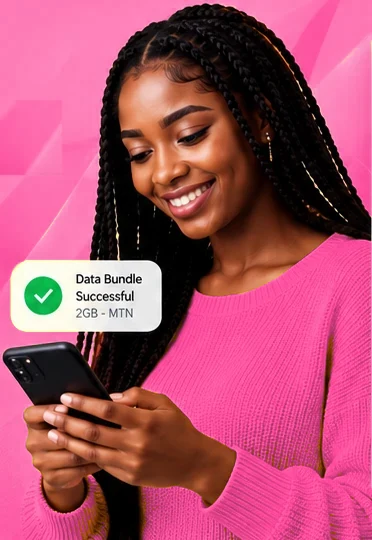
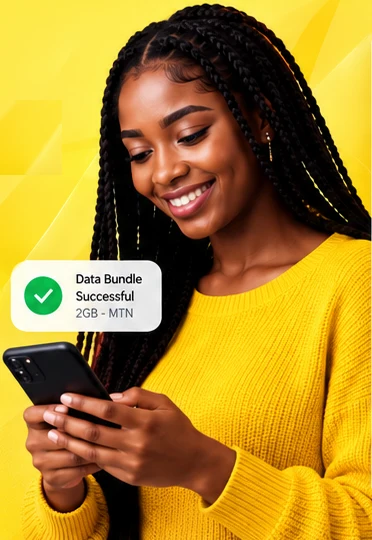
Data Glow: switch to the yellow and black theme
Claude-Session: https://claude.ai/code/session_011K6bvEtoYE2bniEAB5oBvY

diff --git a/web/src/styles.css b/web/src/styles.css
@@ -1,10 +1,10 @@
 /* Data Glow — design tokens and components (yellow / near-black / white identity) */
 :root {
-  --yellow: #FF5FA2;
-  --yellow-2: #FF8CBD;
-  --yellow-soft: #FFE7F1;
-  --yellow-deep: #F03E8C;
-  --amber: #D81B72;
+  --yellow: #FFD400;
+  --yellow-2: #FFE14D;
+  --yellow-soft: #FFF6C7;
+  --yellow-deep: #F2BE00;
+  --amber: #F08A00;
   --ink: #101114;
   --ink-2: #26282D;
   --ink-3: #3A3D44;
@@ -33,9 +33,9 @@
   --night: #101114;
   --on-yellow: #101114;
   --header-bg: rgba(255,255,255,.96);
-  --tint-mtn: #FFF4F9; --tint-telecel: #FFF3F3; --tint-at: #F0FAF4;
+  --tint-mtn: #FFFBEA; --tint-telecel: #FFF3F3; --tint-at: #F0FAF4;
   --danger-ink: #8E1C1C; --success-ink: #0E5C31; --warn-ink: #7A4100; --info-ink: #123E8A;
-  --admin-bg: #F6F5F1; --yellow-line: #F9B9D5;
+  --admin-bg: #F6F5F1; --yellow-line: #F5E08A;
   color-scheme: light;
 }
 * { box-sizing: border-box; }
@@ -145,7 +145,7 @@ p { margin: 0 0 1em; }
 .logo { display: inline-flex; align-items: center; gap: 8px; text-decoration: none; font-weight: 800; font-size: 1.45rem; letter-spacing: -0.03em; color: var(--ink); }
 .logo svg { width: 30px; height: 34px; }
 .logo .deals { color: var(--amber); }
-.on-yellow .logo .deals, .hero .logo .deals { color: #6B0A3C; }
+.on-yellow .logo .deals, .hero .logo .deals { color: #E07A00; }
 .nav { display: none; gap: 2px; margin-left: 12px; }
 .nav a { text-decoration: none; font-weight: 600; font-size: .92rem; padding: 8px 10px; border-radius: 10px; color: var(--ink-2); position: relative; }
 .nav a:hover { background: rgba(16,17,20,.06); }
@@ -164,13 +164,13 @@ p { margin: 0 0 1em; }
 
 /* ---------- Hero ---------- */
 .hero { background: var(--yellow); position: relative; overflow: hidden; }
-.hero::before { content: ''; position: absolute; width: 720px; height: 720px; right: -160px; top: -260px; border-radius: 50%; background: radial-gradient(closest-side, rgba(255,170,205,.9), rgba(255,95,162,0)); pointer-events: none; }
+.hero::before { content: ''; position: absolute; width: 720px; height: 720px; right: -160px; top: -260px; border-radius: 50%; background: radial-gradient(closest-side, rgba(255,236,120,.9), rgba(255,212,0,0)); pointer-events: none; }
 .hero-inner { position: relative; display: grid; gap: 28px; padding-top: 28px; padding-bottom: 40px; align-items: start; }
 @media (min-width: 980px) { .hero-inner { grid-template-columns: 1.15fr .85fr; gap: 40px; padding-top: 52px; padding-bottom: 64px; align-items: center; } }
 .hero-kicker { display: inline-flex; gap: 10px; align-items: center; border: 1.5px solid rgba(16,17,20,.85); border-radius: 999px; padding: 6px 14px; font-weight: 700; font-size: .76rem; letter-spacing: .08em; margin-bottom: 18px; background: rgba(255,255,255,.18); }
 .hero-kicker i { width: 4px; height: 4px; border-radius: 50%; background: var(--ink); display: inline-block; }
 .hero h1 { margin-bottom: 14px; }
-.hero h1 .accent { color: #6B0A3C; display: block; }
+.hero h1 .accent { color: #E07A00; display: block; }
 .hero .lead { font-size: clamp(1.02rem, 1.8vw, 1.2rem); max-width: 34ch; color: var(--ink-2); margin-bottom: 22px; }
 .features { display: grid; grid-template-columns: repeat(4, 1fr); gap: 10px; max-width: 480px; margin-bottom: 24px; }
 .feature { text-align: center; font-size: .8rem; font-weight: 700; line-height: 1.25; }
@@ -395,10 +395,10 @@ table.table { width: 100%; border-collapse: collapse; font-size: .9rem; }
 /* ---------- Customer dashboard (premium) ---------- */
 .dash-hero { position: relative; overflow: hidden; background: var(--night); color: #fff; border-radius: 24px; padding: 24px 20px 20px; margin-bottom: 16px; box-shadow: var(--shadow-lg); }
 @media (min-width: 720px) { .dash-hero { padding: 32px 30px 26px; } }
-.dash-hero-glow { position: absolute; width: 420px; height: 420px; right: -170px; top: -210px; border-radius: 50%; background: radial-gradient(circle, rgba(255,95,162,.55) 0%, rgba(255,95,162,.12) 45%, rgba(255,95,162,0) 70%); pointer-events: none; }
+.dash-hero-glow { position: absolute; width: 420px; height: 420px; right: -170px; top: -210px; border-radius: 50%; background: radial-gradient(circle, rgba(255,212,0,.55) 0%, rgba(255,212,0,.12) 45%, rgba(255,212,0,0) 70%); pointer-events: none; }
 .dash-hero > *:not(.dash-hero-glow) { position: relative; }
 .dash-kicker { display: inline-flex; align-items: center; gap: 8px; font-size: .78rem; font-weight: 700; letter-spacing: .08em; text-transform: uppercase; color: rgba(255,255,255,.72); }
-.dash-dot { width: 8px; height: 8px; border-radius: 50%; background: var(--yellow); box-shadow: 0 0 0 4px rgba(255,95,162,.18); }
+.dash-dot { width: 8px; height: 8px; border-radius: 50%; background: var(--yellow); box-shadow: 0 0 0 4px rgba(255,212,0,.18); }
 .dash-hello { font-size: clamp(1.9rem, 6.4vw, 2.7rem); margin: 10px 0 6px; color: #fff; letter-spacing: -0.035em; }
 .dash-hello span { color: var(--yellow); }
 .dash-twi { margin: 0 0 18px; font-size: 1rem; color: rgba(255,255,255,.78); line-height: 1.45; }
@@ -413,7 +413,7 @@ table.table { width: 100%; border-collapse: collapse; font-size: .9rem; }
 .dash-stats { display: grid; grid-template-columns: repeat(2, minmax(0, 1fr)); gap: 10px; }
 @media (min-width: 720px) { .dash-stats { grid-template-columns: repeat(4, minmax(0, 1fr)); } }
 .dash-stat { display: flex; align-items: center; gap: 11px; background: rgba(255,255,255,.06); border: 1px solid rgba(255,255,255,.1); border-radius: 16px; padding: 12px; min-width: 0; }
-.dash-stat-ic { flex-shrink: 0; width: 38px; height: 38px; border-radius: 12px; background: rgba(255,95,162,.14); color: var(--yellow); display: flex; align-items: center; justify-content: center; }
+.dash-stat-ic { flex-shrink: 0; width: 38px; height: 38px; border-radius: 12px; background: rgba(255,212,0,.14); color: var(--yellow); display: flex; align-items: center; justify-content: center; }
 .dash-stat-ic svg { width: 19px; height: 19px; }
 .dash-stat-v { font-weight: 800; font-size: 1.12rem; line-height: 1.15; font-variant-numeric: tabular-nums; white-space: nowrap; overflow: hidden; text-overflow: ellipsis; }
 .dash-stat-l { font-size: .74rem; color: rgba(255,255,255,.62); font-weight: 600; }
@@ -449,7 +449,7 @@ table.table { width: 100%; border-collapse: collapse; font-size: .9rem; }
 .hero-kicker-split .kick-rest { display: inline-flex; gap: 9px; align-items: center; padding: 6px 13px; }
 @media (max-width: 380px) { .hero-kicker-split .kick-rest { display: none; } }
 .greet-card { display: flex; align-items: center; gap: 12px; background: var(--night); color: #fff; border-radius: 20px; padding: 12px 12px 12px 12px; margin-bottom: 20px; text-decoration: none; box-shadow: 0 14px 34px rgba(16,17,20,.22); max-width: 520px; position: relative; overflow: hidden; }
-.greet-card::before { content: ''; position: absolute; width: 180px; height: 180px; right: -70px; top: -90px; border-radius: 50%; background: radial-gradient(circle, rgba(255,95,162,.45), rgba(255,95,162,0) 70%); pointer-events: none; }
+.greet-card::before { content: ''; position: absolute; width: 180px; height: 180px; right: -70px; top: -90px; border-radius: 50%; background: radial-gradient(circle, rgba(255,212,0,.45), rgba(255,212,0,0) 70%); pointer-events: none; }
 .greet-avatar { flex-shrink: 0; width: 46px; height: 46px; border-radius: 14px; background: var(--yellow); color: var(--ink); font-weight: 800; font-size: 1.25rem; display: flex; align-items: center; justify-content: center; }
 .greet-text { flex: 1; min-width: 0; display: flex; flex-direction: column; gap: 2px; position: relative; }
 .greet-hello { font-weight: 700; font-size: 1.08rem; line-height: 1.2; }
@@ -510,7 +510,7 @@ table.table { width: 100%; border-collapse: collapse; font-size: .9rem; }
   /* The yellow brand areas keep their original light look (dark text on yellow, white buy box). */
   .hero, .site-header.on-yellow, .lady-banner, .promo {
     --ink: #101114; --ink-2: #26282D; --ink-3: #3A3D44; --muted: #5E626A; --muted-2: #8A8E96;
-    --line: #E9E7E0; --line-2: #F1EFE9; --surface: #FFFFFF; --surface-2: #FBFAF7; --soft: #F7F6F2; --yellow-soft: #FFE7F1;
+    --line: #E9E7E0; --line-2: #F1EFE9; --surface: #FFFFFF; --surface-2: #FBFAF7; --soft: #F7F6F2; --yellow-soft: #FFF6C7;
     --success: #188A4A; --success-bg: #E6F5EC; --danger: #C62828; --danger-bg: #FDECEA; --info: #1759C7; --info-bg: #E8F0FE; --warn: #B45F00; --warn-bg: #FFF1DC;
     color: #101114;
   }
@@ -547,15 +547,15 @@ table.table { width: 100%; border-collapse: collapse; font-size: .9rem; }
 .demo-notch { position: absolute; top: 18px; left: 50%; transform: translateX(-50%); width: 88px; height: 22px; border-radius: 999px; background: #000; z-index: 3; }
 .demo-screen { position: relative; height: 100%; border-radius: 32px; overflow: hidden; background: #FFFFFF; color: #101114; padding: 48px 16px 18px; }
 .demo-top { display: flex; justify-content: space-between; align-items: center; margin-bottom: 18px; font-size: .78rem; font-weight: 700; }
-.demo-logo { font-weight: 800; font-size: .95rem; } .demo-logo b { color: #6B0A3C; }
-.demo-step { background: #FFE7F1; border-radius: 999px; padding: 3px 9px; }
+.demo-logo { font-weight: 800; font-size: .95rem; } .demo-logo b { color: #E07A00; }
+.demo-step { background: #FFF6C7; border-radius: 999px; padding: 3px 9px; }
 .demo-pane { position: absolute; left: 16px; right: 16px; top: 92px; opacity: 0; transform: translateX(26px); transition: opacity .45s ease, transform .45s ease; pointer-events: none; }
 .demo-pane.on { opacity: 1; transform: none; }
 .demo-label { font-weight: 800; font-size: .95rem; margin-bottom: 12px; }
 .demo-nets { display: grid; grid-template-columns: repeat(3, 1fr); gap: 8px; }
 .demo-net { position: relative; border: 1.5px solid #E9E7E0; border-radius: 14px; padding: 12px 4px; display: flex; flex-direction: column; align-items: center; gap: 6px; font-weight: 700; font-size: .78rem; }
 .demo-pane.on .demo-net.pick { animation: dd-pick 0s .9s forwards; }
-@keyframes dd-pick { to { border-color: #101114; background: #FFE7F1; box-shadow: inset 0 0 0 1px #101114; } }
+@keyframes dd-pick { to { border-color: #101114; background: #FFF6C7; box-shadow: inset 0 0 0 1px #101114; } }
 .demo-tap { position: absolute; width: 34px; height: 34px; border-radius: 50%; background: rgba(16,17,20,.25); right: 12px; bottom: 6px; opacity: 0; }
 .demo-pane.on .demo-tap { animation: dd-tap .9s .5s ease-out 1; }
 @keyframes dd-tap { 0% { opacity: .9; transform: scale(.3); } 100% { opacity: 0; transform: scale(1.6); } }
@@ -570,15 +570,15 @@ table.table { width: 100%; border-collapse: collapse; font-size: .9rem; }
 .demo-momo { background: #FFCB05; border-radius: 18px; padding: 18px; text-align: center; font-size: .88rem; font-weight: 600; }
 .demo-momo-h { font-weight: 800; font-size: 1rem; margin-bottom: 8px; }
 .demo-momo-amt { font-size: 1.8rem; font-weight: 800; margin: 4px 0 14px; }
-.demo-momo-btn { position: relative; background: #101114; color: #FF5FA2; border-radius: 12px; padding: 12px; font-weight: 800; }
-.demo-momo-btn .demo-tap { right: 40%; bottom: 4px; background: rgba(255,95,162,.5); }
+.demo-momo-btn { position: relative; background: #101114; color: #FFD400; border-radius: 12px; padding: 12px; font-weight: 800; }
+.demo-momo-btn .demo-tap { right: 40%; bottom: 4px; background: rgba(255,212,0,.5); }
 .demo-done { text-align: center; display: flex; flex-direction: column; align-items: center; gap: 8px; padding-top: 30px; font-size: .9rem; }
 .demo-done b { font-size: 1.4rem; }
 .demo-done span { color: #5E626A; font-weight: 600; }
 .demo-check { width: 76px; height: 76px; border-radius: 50%; background: #188A4A; color: #fff; font-size: 2.4rem; font-weight: 800; display: flex; align-items: center; justify-content: center; animation: dd-pop .5s cubic-bezier(.2,1.6,.4,1); }
 @keyframes dd-pop { from { transform: scale(0); } to { transform: scale(1); } }
 .demo-bar { position: absolute; left: 16px; right: 16px; bottom: 18px; height: 4px; border-radius: 4px; background: #F1EFE9; overflow: hidden; }
-.demo-bar i { display: block; height: 100%; background: #FF5FA2; width: 0; animation: dd-grow linear forwards; }
+.demo-bar i { display: block; height: 100%; background: #FFD400; width: 0; animation: dd-grow linear forwards; }
 @keyframes dd-grow { to { width: 100%; } }
 .demo-steps h2 { margin-bottom: 16px; }
 .demo-steps ol { list-style: none; padding: 0; margin: 0 0 22px; display: grid; gap: 10px; }
@@ -589,28 +589,28 @@ table.table { width: 100%; border-collapse: collapse; font-size: .9rem; }
 .demo-num { flex-shrink: 0; width: 36px; height: 36px; border-radius: 50%; background: var(--yellow-soft); color: var(--ink); font-weight: 800; display: flex; align-items: center; justify-content: center; transition: background .2s; }
 .demo-steps button.on .demo-num { background: var(--yellow); color: var(--on-yellow); }
 @media (prefers-reduced-motion: reduce) { .ticker-track { animation: none; } .demo-pane, .demo-steps button { transition: none; } .demo-caret { animation: none; } }
-.demo-cta { position: absolute; left: 16px; right: 16px; bottom: 64px; height: 50px; border-radius: 14px; background: #FF5FA2; color: #101114; font-weight: 800; font-size: .92rem; display: flex; align-items: center; justify-content: center; overflow: hidden; }
+.demo-cta { position: absolute; left: 16px; right: 16px; bottom: 64px; height: 50px; border-radius: 14px; background: #FFD400; color: #101114; font-weight: 800; font-size: .92rem; display: flex; align-items: center; justify-content: center; overflow: hidden; }
 .demo-cta .demo-tap { right: 44%; bottom: 8px; opacity: 0; animation: dd-tap .9s 2.3s ease-out 1 !important; }
 .demo-note { position: absolute; left: 16px; right: 16px; bottom: 34px; text-align: center; font-size: .72rem; font-weight: 600; color: #8A8E96; }
 .demo-cta, .demo-note { white-space: nowrap; }
 
 /* ---------- Phone hero stage: lady + moving text ---------- */
-.stage { position: relative; height: 290px; margin: 4px 0 22px; border-radius: 26px; overflow: hidden; background: linear-gradient(160deg, #FF8CBD 0%, #FF5FA2 55%, #F03E8C 100%); box-shadow: inset 0 0 0 1.5px rgba(16,17,20,.08), 0 14px 30px rgba(16,17,20,.12); }
+.stage { position: relative; height: 290px; margin: 4px 0 22px; border-radius: 26px; overflow: hidden; background: linear-gradient(160deg, #FFE14D 0%, #FFD400 55%, #F2BE00 100%); box-shadow: inset 0 0 0 1.5px rgba(16,17,20,.08), 0 14px 30px rgba(16,17,20,.12); }
 .stage-glow { position: absolute; width: 300px; height: 300px; left: -90px; top: -120px; border-radius: 50%; background: radial-gradient(circle, rgba(255,255,255,.55), rgba(255,255,255,0) 70%); pointer-events: none; }
 .stage-lady { position: absolute; right: -34px; bottom: 34px; height: 300px; width: auto; max-width: none; object-fit: contain;
   -webkit-mask-image: linear-gradient(to right, transparent 0, #000 14%); mask-image: linear-gradient(to right, transparent 0, #000 14%);
   animation: dd-float 6s ease-in-out infinite; }
 @keyframes dd-float { 0%, 100% { transform: translateY(0); } 50% { transform: translateY(-6px); } }
 .stage-copy { position: absolute; left: 18px; top: 20px; width: 56%; z-index: 2; color: #101114; }
-.stage-pill { display: inline-block; background: #101114; color: #FF5FA2; font-weight: 800; font-size: .72rem; border-radius: 999px; padding: 5px 10px; margin-bottom: 12px; }
+.stage-pill { display: inline-block; background: #101114; color: #FFD400; font-weight: 800; font-size: .72rem; border-radius: 999px; padding: 5px 10px; margin-bottom: 12px; }
 .stage-line { font-weight: 800; font-size: 1.5rem; line-height: 1.05; letter-spacing: -0.02em; }
 .stage-word { height: 2.2rem; overflow: hidden; font-weight: 800; font-size: 1.75rem; line-height: 2.2rem; letter-spacing: -0.03em; color: #101114; }
-.stage-word span { display: inline-block; background: #101114; color: #FF5FA2; padding: 0 10px; border-radius: 10px; animation: dd-word .5s cubic-bezier(.2,.9,.3,1.2); white-space: nowrap; }
+.stage-word span { display: inline-block; background: #101114; color: #FFD400; padding: 0 10px; border-radius: 10px; animation: dd-word .5s cubic-bezier(.2,.9,.3,1.2); white-space: nowrap; }
 @keyframes dd-word { from { transform: translateY(110%); opacity: 0; } to { transform: none; opacity: 1; } }
 .stage-sub { margin-top: 10px; font-size: .85rem; font-weight: 600; color: #26282D; max-width: 170px; line-height: 1.35; }
 .stage-strip { position: absolute; left: 0; right: 0; bottom: 0; height: 36px; background: #101114; color: #fff; display: flex; align-items: center; overflow: hidden; white-space: nowrap; z-index: 3; }
 .stage-strip span { display: inline-flex; align-items: center; gap: 14px; padding-right: 14px; font-weight: 800; font-size: .8rem; }
-.stage-strip i { font-style: normal; color: #FF5FA2; }
+.stage-strip i { font-style: normal; color: #FFD400; }
 .stage-strip .ticker-track { animation-duration: 18s; }
 @media (min-width: 420px) { .stage { height: 320px; } .stage-lady { height: 330px; right: -20px; } .stage-copy { width: 52%; } }
 @media (min-width: 1200px) { .stage { display: none; } }
@@ -628,7 +628,7 @@ table.table { width: 100%; border-collapse: collapse; font-size: .9rem; }
 .chat-panel { position: fixed; inset: 0; z-index: 90; display: flex; flex-direction: column; background: var(--bg); animation: dd-rise .25s ease-out; }
 @media (min-width: 641px) { .chat-panel { inset: auto 24px 24px auto; width: 390px; height: min(640px, calc(100vh - 48px)); border-radius: 24px; overflow: hidden; box-shadow: 0 24px 60px rgba(16,17,20,.3); border: 1px solid var(--line); } }
 .chat-head { display: flex; align-items: center; gap: 12px; padding: 14px 14px 14px 16px; padding-top: calc(14px + env(safe-area-inset-top)); background: var(--night); color: #fff; position: relative; overflow: hidden; }
-.chat-head::after { content: ''; position: absolute; width: 180px; height: 180px; right: -60px; top: -100px; border-radius: 50%; background: radial-gradient(circle, rgba(255,95,162,.4), rgba(255,95,162,0) 70%); pointer-events: none; }
+.chat-head::after { content: ''; position: absolute; width: 180px; height: 180px; right: -60px; top: -100px; border-radius: 50%; background: radial-gradient(circle, rgba(255,212,0,.4), rgba(255,212,0,0) 70%); pointer-events: none; }
 .chat-avatars { display: flex; flex-shrink: 0; }
 .chat-avatars span { width: 40px; height: 40px; border-radius: 50%; background: var(--yellow); color: #101114; font-weight: 800; font-size: .85rem; display: flex; align-items: center; justify-content: center; border: 2px solid var(--night); }
 .chat-avatars span + span { margin-left: -10px; }
@@ -711,26 +711,26 @@ table.table { width: 100%; border-collapse: collapse; font-size: .9rem; }
 .promo-art-ic { font-size: 2.5rem; line-height: 1; }
 /* Brand tones: black / orange / white / deep yellow. No network logos. */
 .tone-night { background: linear-gradient(125deg, #101114 0%, #24262C 100%); color: #fff; }
-.tone-night .promo-glow { background: radial-gradient(closest-side, rgba(255,95,162,.55), transparent); }
-.tone-night .promo-badge, .tone-night .promo-cta { background: #FF5FA2; color: #101114; }
-.tone-night .promo-title em { color: #FF5FA2; }
-.tone-night .promo-art { background: #FF5FA2; color: #101114; box-shadow: 0 10px 24px rgba(255,95,162,.3); }
-.tone-orange { background: linear-gradient(125deg, #D81B72 0%, #B0125C 100%); color: #fff; }
-.tone-orange .promo-glow { background: radial-gradient(closest-side, rgba(255,170,205,.7), transparent); }
+.tone-night .promo-glow { background: radial-gradient(closest-side, rgba(255,212,0,.55), transparent); }
+.tone-night .promo-badge, .tone-night .promo-cta { background: #FFD400; color: #101114; }
+.tone-night .promo-title em { color: #FFD400; }
+.tone-night .promo-art { background: #FFD400; color: #101114; box-shadow: 0 10px 24px rgba(255,212,0,.3); }
+.tone-orange { background: linear-gradient(125deg, #F08A00 0%, #E06A00 100%); color: #fff; }
+.tone-orange .promo-glow { background: radial-gradient(closest-side, rgba(255,236,120,.7), transparent); }
 .tone-orange .promo-badge { background: rgba(255,255,255,.2); color: #fff; }
-.tone-orange .promo-cta { background: #101114; color: #FF5FA2; }
+.tone-orange .promo-cta { background: #101114; color: #FFD400; }
 .tone-orange .promo-title em { color: #101114; }
 .tone-orange .promo-art { background: #fff; box-shadow: 0 10px 24px rgba(16,17,20,.2); }
-.tone-light { background: linear-gradient(125deg, #FFFFFF 0%, #FFE7F1 100%); color: #101114; }
-.tone-light .promo-glow { background: radial-gradient(closest-side, rgba(255,95,162,.6), transparent); }
-.tone-light .promo-badge, .tone-light .promo-cta { background: #101114; color: #FF5FA2; }
-.tone-light .promo-title em { color: #6B0A3C; }
+.tone-light { background: linear-gradient(125deg, #FFFFFF 0%, #FFF6C7 100%); color: #101114; }
+.tone-light .promo-glow { background: radial-gradient(closest-side, rgba(255,212,0,.6), transparent); }
+.tone-light .promo-badge, .tone-light .promo-cta { background: #101114; color: #FFD400; }
+.tone-light .promo-title em { color: #E07A00; }
 .tone-light .promo-sub { color: #3A3D44; opacity: 1; }
 .tone-light .promo-art { background: #101114; }
-.tone-deep { background: linear-gradient(125deg, #FF8CBD 0%, #F03E8C 100%); color: #101114; }
+.tone-deep { background: linear-gradient(125deg, #FFE14D 0%, #F2BE00 100%); color: #101114; }
 .tone-deep .promo-glow { background: radial-gradient(closest-side, rgba(255,255,255,.8), transparent); }
 .tone-deep .promo-badge { background: rgba(16,17,20,.1); color: #101114; }
-.tone-deep .promo-cta { background: #101114; color: #FF5FA2; }
+.tone-deep .promo-cta { background: #101114; color: #FFD400; }
 .tone-deep .promo-title em { color: #B35A00; }
 .tone-deep .promo-sub { color: #26282D; opacity: 1; }
 .tone-deep .promo-art { background: #fff; box-shadow: 0 10px 24px rgba(16,17,20,.16); }

diff --git a/web/src/admin/common.tsx b/web/src/admin/common.tsx
@@ -58,10 +58,10 @@ export function AreaChart({ points, height = 200 }: { points: { label: string; v
     <div className="chart" ref={ref} style={{ position: 'relative' }} onPointerMove={onMove} onPointerLeave={() => setHover(null)}>
       <svg viewBox={`0 0 ${W} ${H}`} role="img" aria-label="Sales over time">
         {ticks.map((t) => <g key={t}><line x1={pad.l} x2={W - pad.r} y1={y(t)} y2={y(t)} style={{ stroke: 'var(--line)' }} /><text x={pad.l - 8} y={y(t) + 4} textAnchor="end" fontSize="11" fill="#8A8E96">{t >= 100000 ? `${(t / 100000).toFixed(t % 100000 ? 1 : 0)}k` : (t / 100).toFixed(t % 100 ? (t % 10 ? 2 : 1) : 0)}</text></g>)}
-        <path d={area} fill="#FF5FA2" fillOpacity=".28" />
+        <path d={area} fill="#FFD400" fillOpacity=".28" />
         <path d={line} fill="none" stroke="#E0B000" strokeWidth="2.5" strokeLinejoin="round" />
         {points.map((p, i) => i % every === 0 || i === points.length - 1 ? <text key={i} x={x(i)} y={H - 6} textAnchor="middle" fontSize="11" fill="#8A8E96">{p.label.slice(5).replace('-', '/')}</text> : null)}
-        {hover !== null && <><line x1={x(hover)} x2={x(hover)} y1={pad.t} y2={H - pad.b} style={{ stroke: 'var(--ink)' }} strokeOpacity=".25" /><circle cx={x(hover)} cy={y(points[hover].value)} r="5" fill="#101114" stroke="#FF5FA2" strokeWidth="2" /></>}
+        {hover !== null && <><line x1={x(hover)} x2={x(hover)} y1={pad.t} y2={H - pad.b} style={{ stroke: 'var(--ink)' }} strokeOpacity=".25" /><circle cx={x(hover)} cy={y(points[hover].value)} r="5" fill="#101114" stroke="#FFD400" strokeWidth="2" /></>}
       </svg>
       {hover !== null && <div className="chart-tip" style={{ left: `${(x(hover) / W) * 100}%`, top: `${(y(points[hover].value) / H) * 100}%` }}>{points[hover].label}: <b>{ghs(points[hover].value)}</b></div>}
     </div>

diff --git a/web/sw.js b/web/sw.js
@@ -19,7 +19,7 @@ self.addEventListener('fetch', (e) => {
   }
   if (e.request.mode === 'navigate') {
     // Network first so prices and pages are always fresh; offline fallback message if there is no connection.
-    e.respondWith(fetch(e.request).catch(() => new Response('<!doctype html><meta name=viewport content="width=device-width"><body style="font-family:sans-serif;padding:32px;text-align:center"><h2>You are offline</h2><p>Check your internet connection and try again.</p><button onclick="location.reload()" style="padding:12px 20px;border-radius:10px;border:0;background:#FF5FA2;font-weight:700">Retry</button></body>', { headers: { 'Content-Type': 'text/html' } })));
+    e.respondWith(fetch(e.request).catch(() => new Response('<!doctype html><meta name=viewport content="width=device-width"><body style="font-family:sans-serif;padding:32px;text-align:center"><h2>You are offline</h2><p>Check your internet connection and try again.</p><button onclick="location.reload()" style="padding:12px 20px;border-radius:10px;border:0;background:#FFD400;font-weight:700">Retry</button></body>', { headers: { 'Content-Type': 'text/html' } })));
   }
 });
 

diff --git a/web/src/admin/AdminApp.tsx b/web/src/admin/AdminApp.tsx
@@ -84,7 +84,7 @@ export default function AdminApp() {
     <div className="admin">
       <header className="admin-top">
         <button className="icon-btn admin-menu-btn" aria-label="Menu" onClick={() => setOpen(!open)}><IcMenu /></button>
-        <Link to="/admin" className="logo"><Bolt style={{ color: '#FF5FA2', width: 24, height: 28 }} /><span>Data <span className="deals">Deals</span></span></Link>
+        <Link to="/admin" className="logo"><Bolt style={{ color: '#FFD400', width: 24, height: 28 }} /><span>Data <span className="deals">Deals</span></span></Link>
         <div className="admin-user">
           <div className="desktop-only" style={{ flexDirection: 'column', alignItems: 'flex-end', lineHeight: 1.2 }}><b>{user.fullName}</b><span style={{ color: '#9FA2A8', textTransform: 'capitalize' }}>{user.role}</span></div>
           <div className="avatar">{user.fullName.split(' ').map((s) => s[0]).slice(0, 2).join('').toUpperCase()}</div>

diff --git a/web/src/components/ui.tsx b/web/src/components/ui.tsx
@@ -7,7 +7,7 @@ import { ApiError } from '../lib/api';
 export function Logo({ to = '/', light = false }: { to?: string; light?: boolean }) {
   return (
     <Link to={to} className="logo" aria-label="Data Glow home" style={light ? { color: '#fff' } : undefined}>
-      <Bolt style={{ color: light ? '#FF5FA2' : 'var(--ink)' }} />
+      <Bolt style={{ color: light ? '#FFD400' : 'var(--ink)' }} />
       <span>Data <span className="deals">Glow</span></span>
     </Link>
   );

diff --git a/web/index.html b/web/index.html
@@ -3,7 +3,7 @@
   <head>
     <meta charset="utf-8">
     <meta name="viewport" content="width=device-width, initial-scale=1, viewport-fit=cover">
-    <meta name="theme-color" content="#FF5FA2" media="(prefers-color-scheme: light)">
+    <meta name="theme-color" content="#FFD400" media="(prefers-color-scheme: light)">
     <meta name="theme-color" content="#0B0C0E" media="(prefers-color-scheme: dark)">
     <meta name="color-scheme" content="light dark">
     <!--HEAD-->
